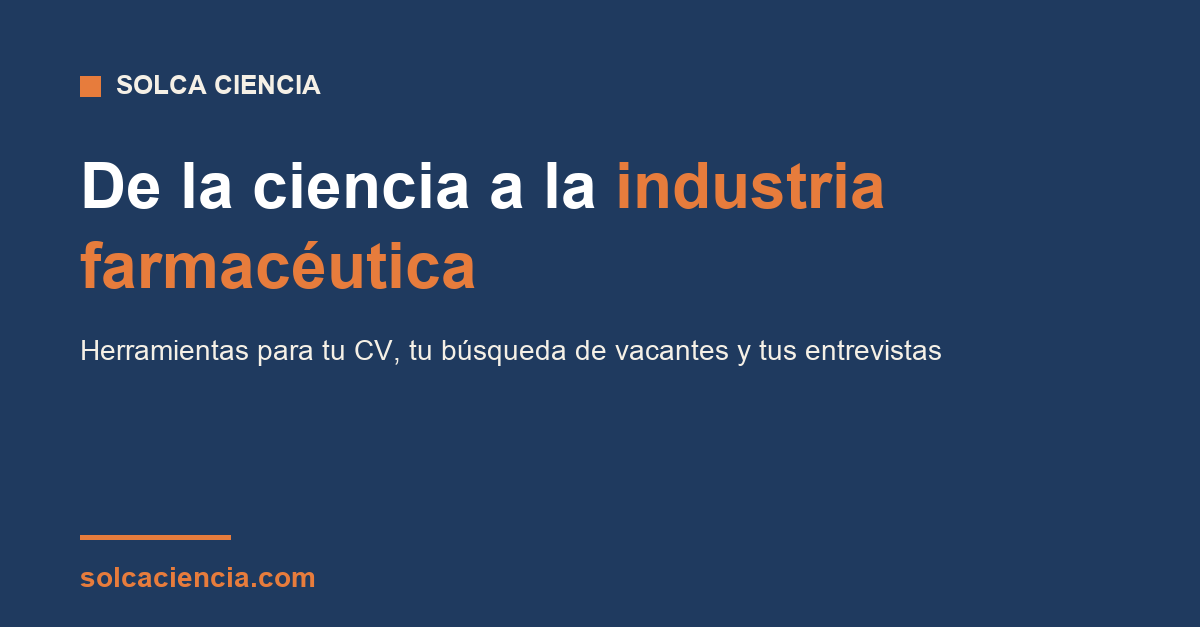
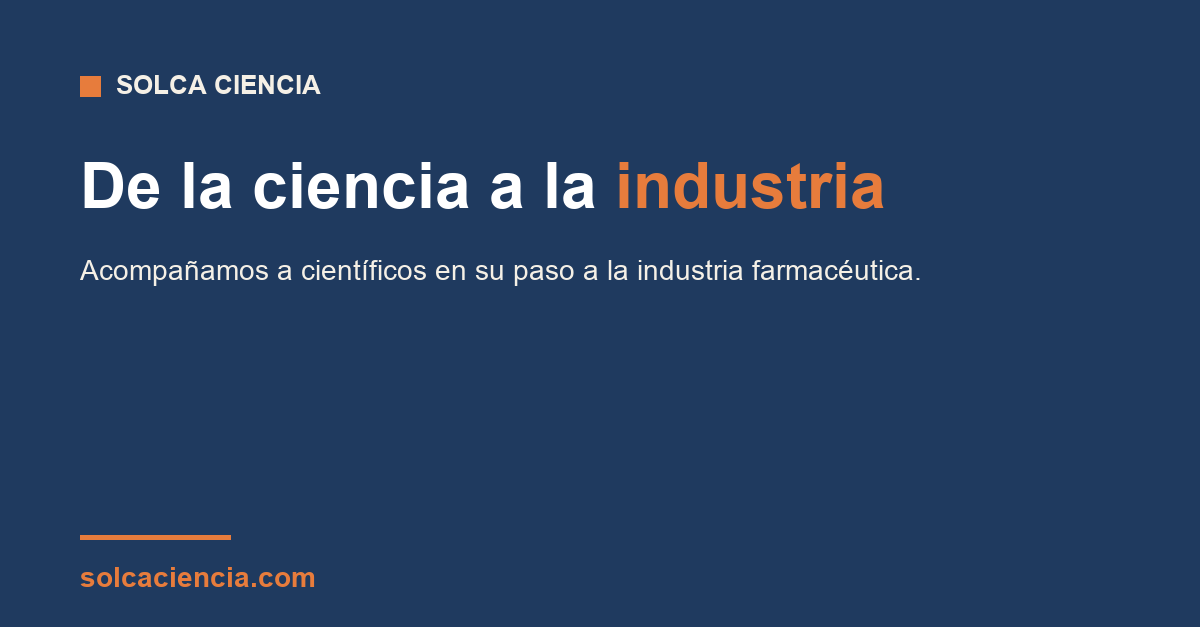
Textos de GPT-6.1 Sol en recuadros del blog, títulos del revisor y del quiz, etiqueta de la home e imágenes para compartir

Changed region(s): [[0.0617, 0.3636, 0.7708, 0.4848], [0.0617, 0.5455, 0.8017, 0.5758]]

diff --git a/scripts/generate-og-images.py b/scripts/generate-og-images.py
@@ -33,42 +33,13 @@ PUBLIC = os.path.join(AQUI, "..", "public")
 
 # clave → (kicker, título, palabras en naranja, subtítulo)
 TARJETAS = {
-    "revisar-cv": (
-        "Revisor de CV",
-        "Revisa tu CV para la industria farmacéutica",
-        "industria farmacéutica",
-        "20 criterios de redacción y estructura · sin costo",
-    ),
-    "quiz-rol": (
-        "Quiz de rol",
-        "¿Qué rol de la industria se ajusta a cómo trabajas?",
-        "cómo trabajas?",
-        "12 preguntas · 5 roles de farma y ciencias de la vida",
-    ),
-    "vacantes": (
-        "Buscador de vacantes",
-        "Vacantes de farma y CRO en América Latina y España",
-        "farma CRO",
-        "Tomadas de los portales oficiales de las empresas",
-    ),
-    "simulador": (
-        "Simulador de entrevistas",
-        "Practica tu entrevista para la industria farmacéutica",
-        "tu entrevista",
-        "Primera sesión sin costo: 5 preguntas de llamada inicial con reclutador",
-    ),
-    "comparar-cv": (
-        "Compara tu CV",
-        "Compara tu CV con una vacante",
-        "una vacante",
-        "Ve cuántos requisitos indispensables de la vacante aparecen en tu CV",
-    ),
-    "solca": (
-        "Solca Ciencia",
-        "De la ciencia a la industria farmacéutica",
-        "industria farmacéutica",
-        "Herramientas para tu CV, tu búsqueda de vacantes y tus entrevistas",
-    ),
+    # Textos de GPT-6.1 Sol (gen-1795120109-ivBtnnv3RgTdkN7KyH8H), aprobados por Oscar el 19 nov 2026.
+    "revisar-cv": ("Revisor de CV", "Revisa tu CV para la industria farmacéutica", "industria farmacéutica", "20 criterios de redacción y estructura. Sin costo."),
+    "quiz-rol": ("Quiz de rol", "¿Qué rol pharma se ajusta más a ti?", "rol pharma", "12 preguntas sobre cómo trabajas. Resultado inmediato."),
+    "vacantes": ("Buscador de vacantes", "Vacantes en América Latina y España", "América Latina España", "Farma, CROs, tecnología médica y consultoras. De sus portales oficiales."),
+    "simulador": ("Simulador de entrevistas", "Practica con tu CV y la vacante", "tu CV vacante", "Primera sesión: 5 preguntas de llamada inicial. Sin costo ni tarjeta."),
+    "comparar-cv": ("Compara tu CV", "Compara tu CV con una vacante", "una vacante", "Ve cuántos requisitos indispensables de la vacante aparecen en tu CV."),
+    "solca": ("Solca Ciencia", "De la ciencia a la industria", "industria", "Acompañamos a científicos en su paso a la industria farmacéutica."),
 }
 
 
@@ -82,8 +53,11 @@ def tarjeta(kicker: str, titulo: str, keyword: str, subtitulo: str, salida: str)
     d.rectangle([m, 76, m + sq, 76 + sq], fill=cover.ORANGE)
     d.text((m + sq + 16, 70), kicker.upper(), font=kf, fill=cover.CREAM)
 
-    tf = cover._font(64, bold=True)
-    lineas = cover._wrap_title_with_keyword(d, titulo, keyword, tf, W - 2 * m)
+    for size in (64, 60, 56):  # evita una palabra sola en la última línea
+        tf = cover._font(size, bold=True)
+        lineas = cover._wrap_title_with_keyword(d, titulo, keyword, tf, W - 2 * m)
+        if len(lineas) == 1 or len(lineas[-1]) > 1:
+            break
     if len(lineas) > 3:
         raise ValueError(f"Título demasiado largo para {salida}: {len(lineas)} líneas")
     y = cover._draw_title_lines(d, lineas, m, 150, tf, 80)

diff --git a/_docs/POSTMARK_TEMPLATE_welcome-solca-insight.md b/_docs/POSTMARK_TEMPLATE_welcome-solca-insight.md
@@ -152,7 +152,7 @@ Cada semana publico un Solca Insight: un análisis corto, con dato citable, sobr
 
 Mientras tanto, dos recursos que quizá te sirvan:
 
-1. Toma el quiz de rol pharma (11 preguntas, 3 minutos, resultado inmediato):
+1. Toma el quiz de rol pharma (12 preguntas, resultado inmediato):
    https://solcaciencia.com/quiz-rol?utm_source=email&utm_medium=welcome-cv&utm_campaign=welcome-cv-cta&utm_content=quiz
 
 2. Post sobre las 13 siglas pharma para incluir en el CV:
